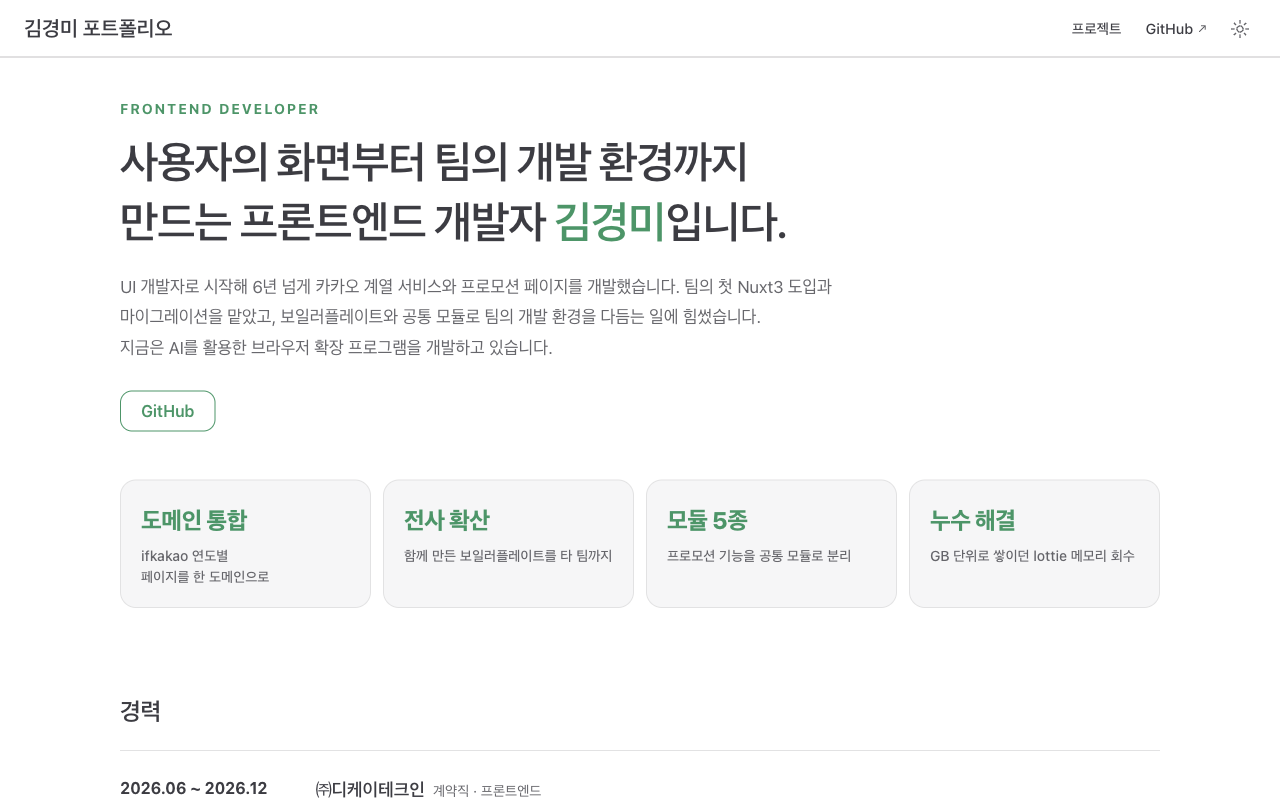
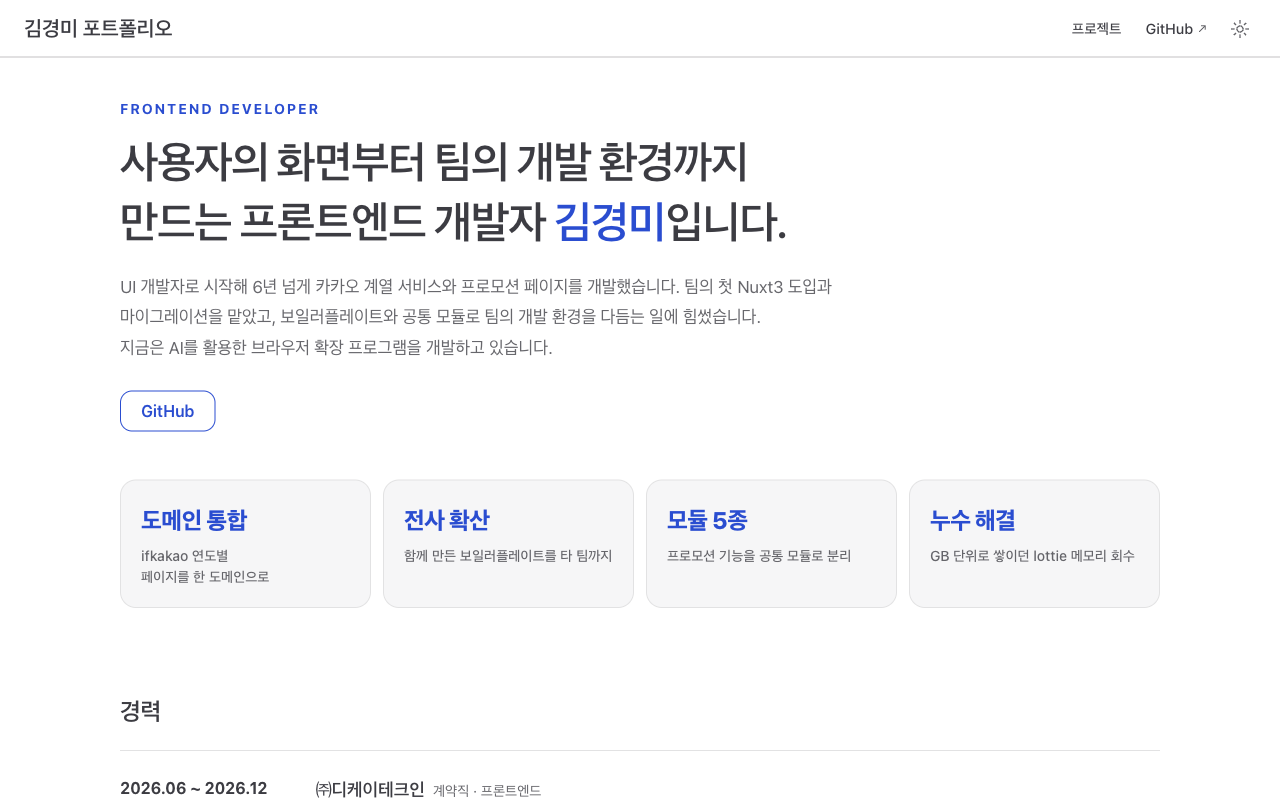
change accent color to cobalt blue

diff --git a/docs/.vuepress/components/CategoryLabel.vue b/docs/.vuepress/components/CategoryLabel.vue
@@ -28,9 +28,10 @@ const categoryClass = {
   font-weight: 700;
   color: var(--badge-c-note-text);
   background: var(--badge-c-note-bg);
+  // 메인 컬러(파랑)와 겹치지 않도록 녹색 사용
   &.type_service {
-    color: var(--badge-c-info-text);
-    background: var(--badge-c-info-bg);
+    color: var(--badge-c-tip-text);
+    background: var(--badge-c-tip-bg);
   }
   &.type_promotion {
     color: var(--badge-c-important-text);
@@ -41,8 +42,8 @@ const categoryClass = {
     background: var(--badge-c-warning-bg);
   }
   &.type_internal {
-    color: var(--badge-c-tip-text);
-    background: var(--badge-c-tip-bg);
+    color: var(--badge-c-note-text);
+    background: var(--badge-c-note-bg);
   }
 }
 </style>

diff --git a/docs/.vuepress/styles/index.scss b/docs/.vuepress/styles/index.scss
@@ -1,3 +1,18 @@
+// 메인 컬러 (코발트 블루)
+:root {
+  --vp-c-accent: #1d4ed8;
+  --vp-c-accent-bg: #2563eb;
+  --vp-c-accent-hover: #3b82f6;
+  --vp-c-accent-soft: rgb(37 99 235 / 12%);
+}
+
+[data-theme='dark'] {
+  --vp-c-accent: #60a5fa;
+  --vp-c-accent-bg: #3b82f6;
+  --vp-c-accent-hover: #2563eb;
+  --vp-c-accent-soft: rgb(59 130 246 / 16%);
+}
+
 ul {
   li {
     + li {
